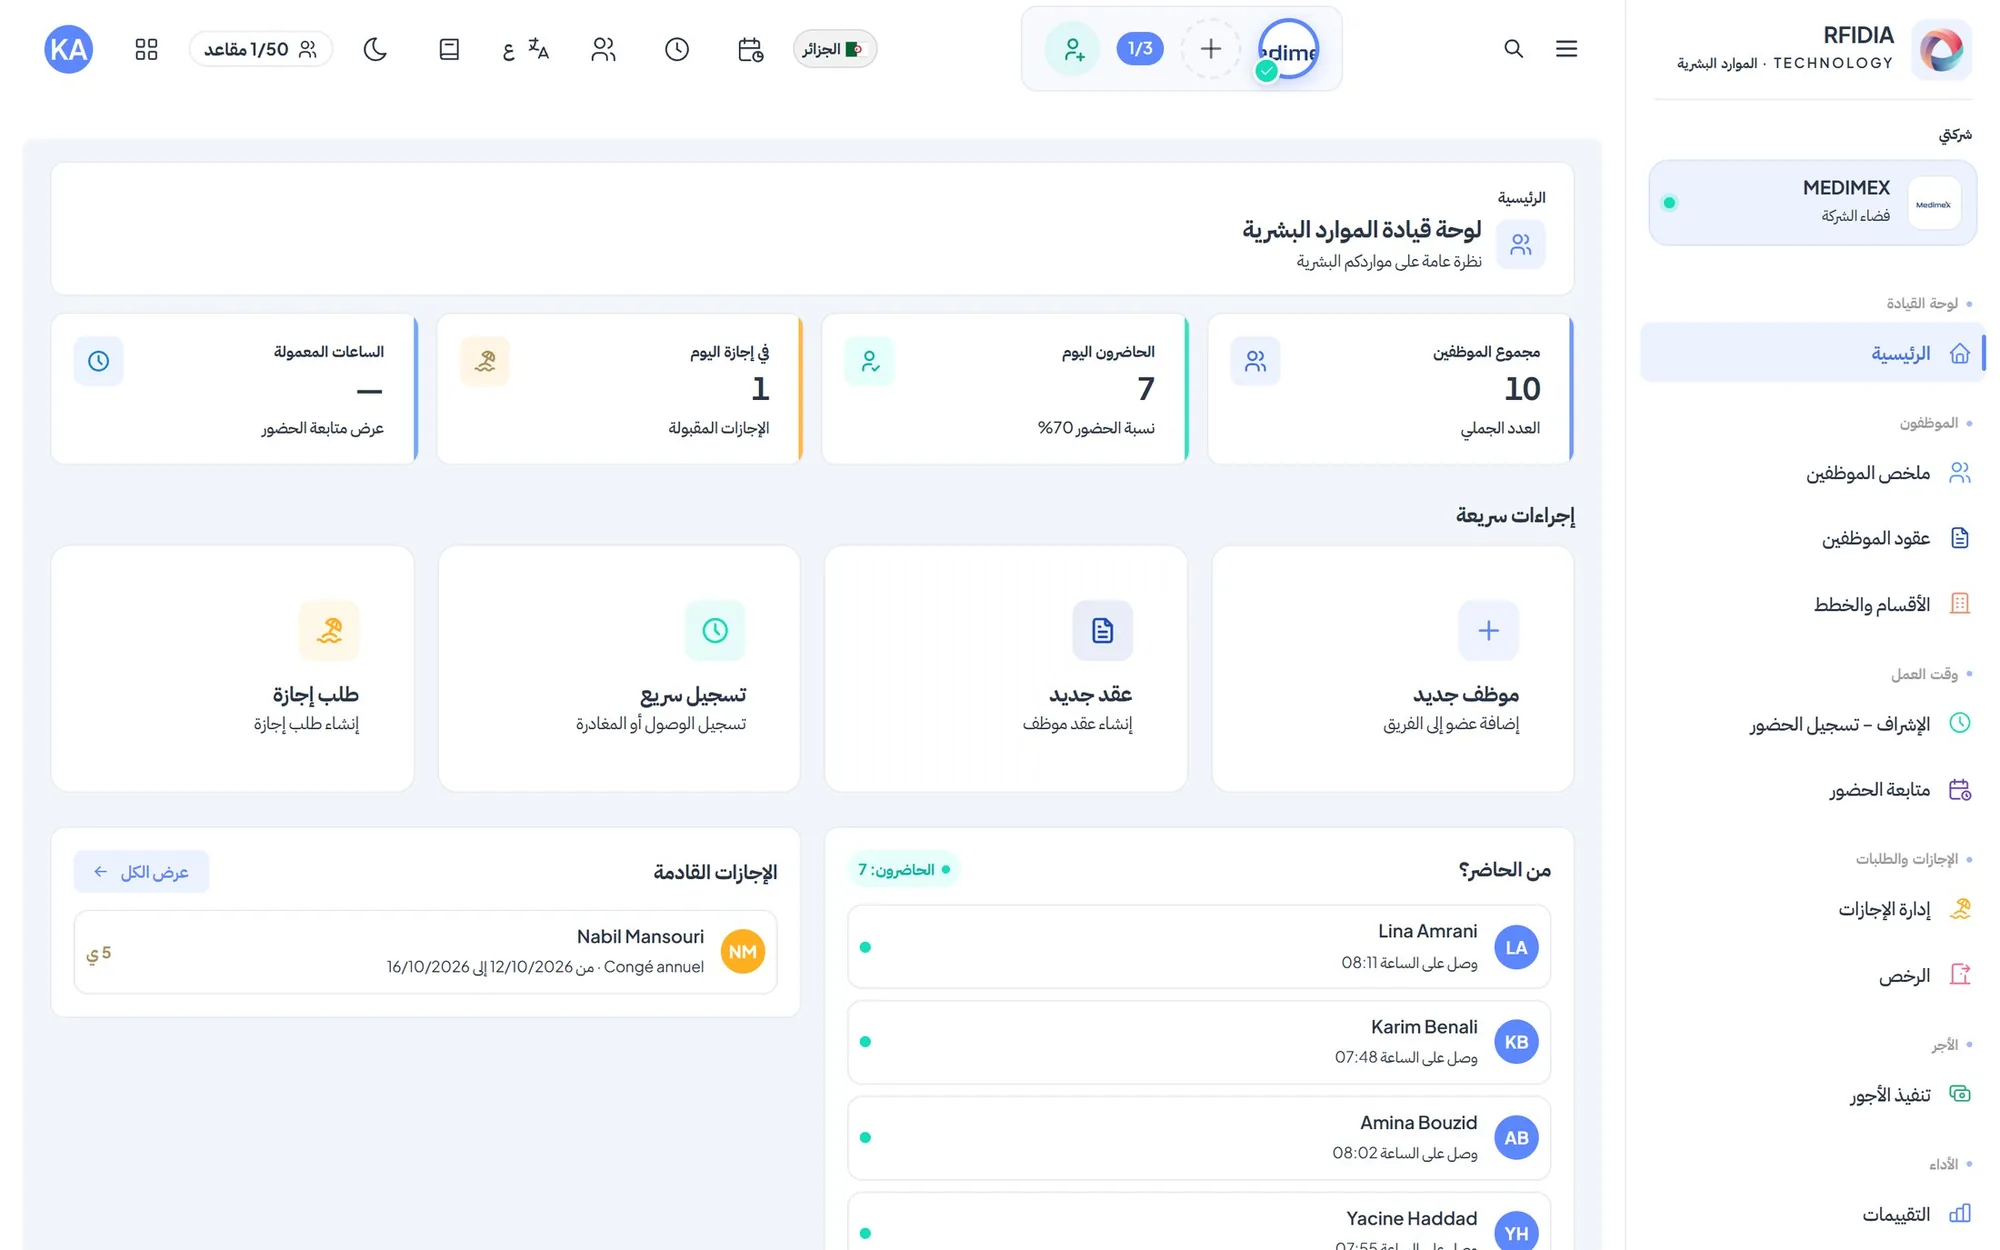
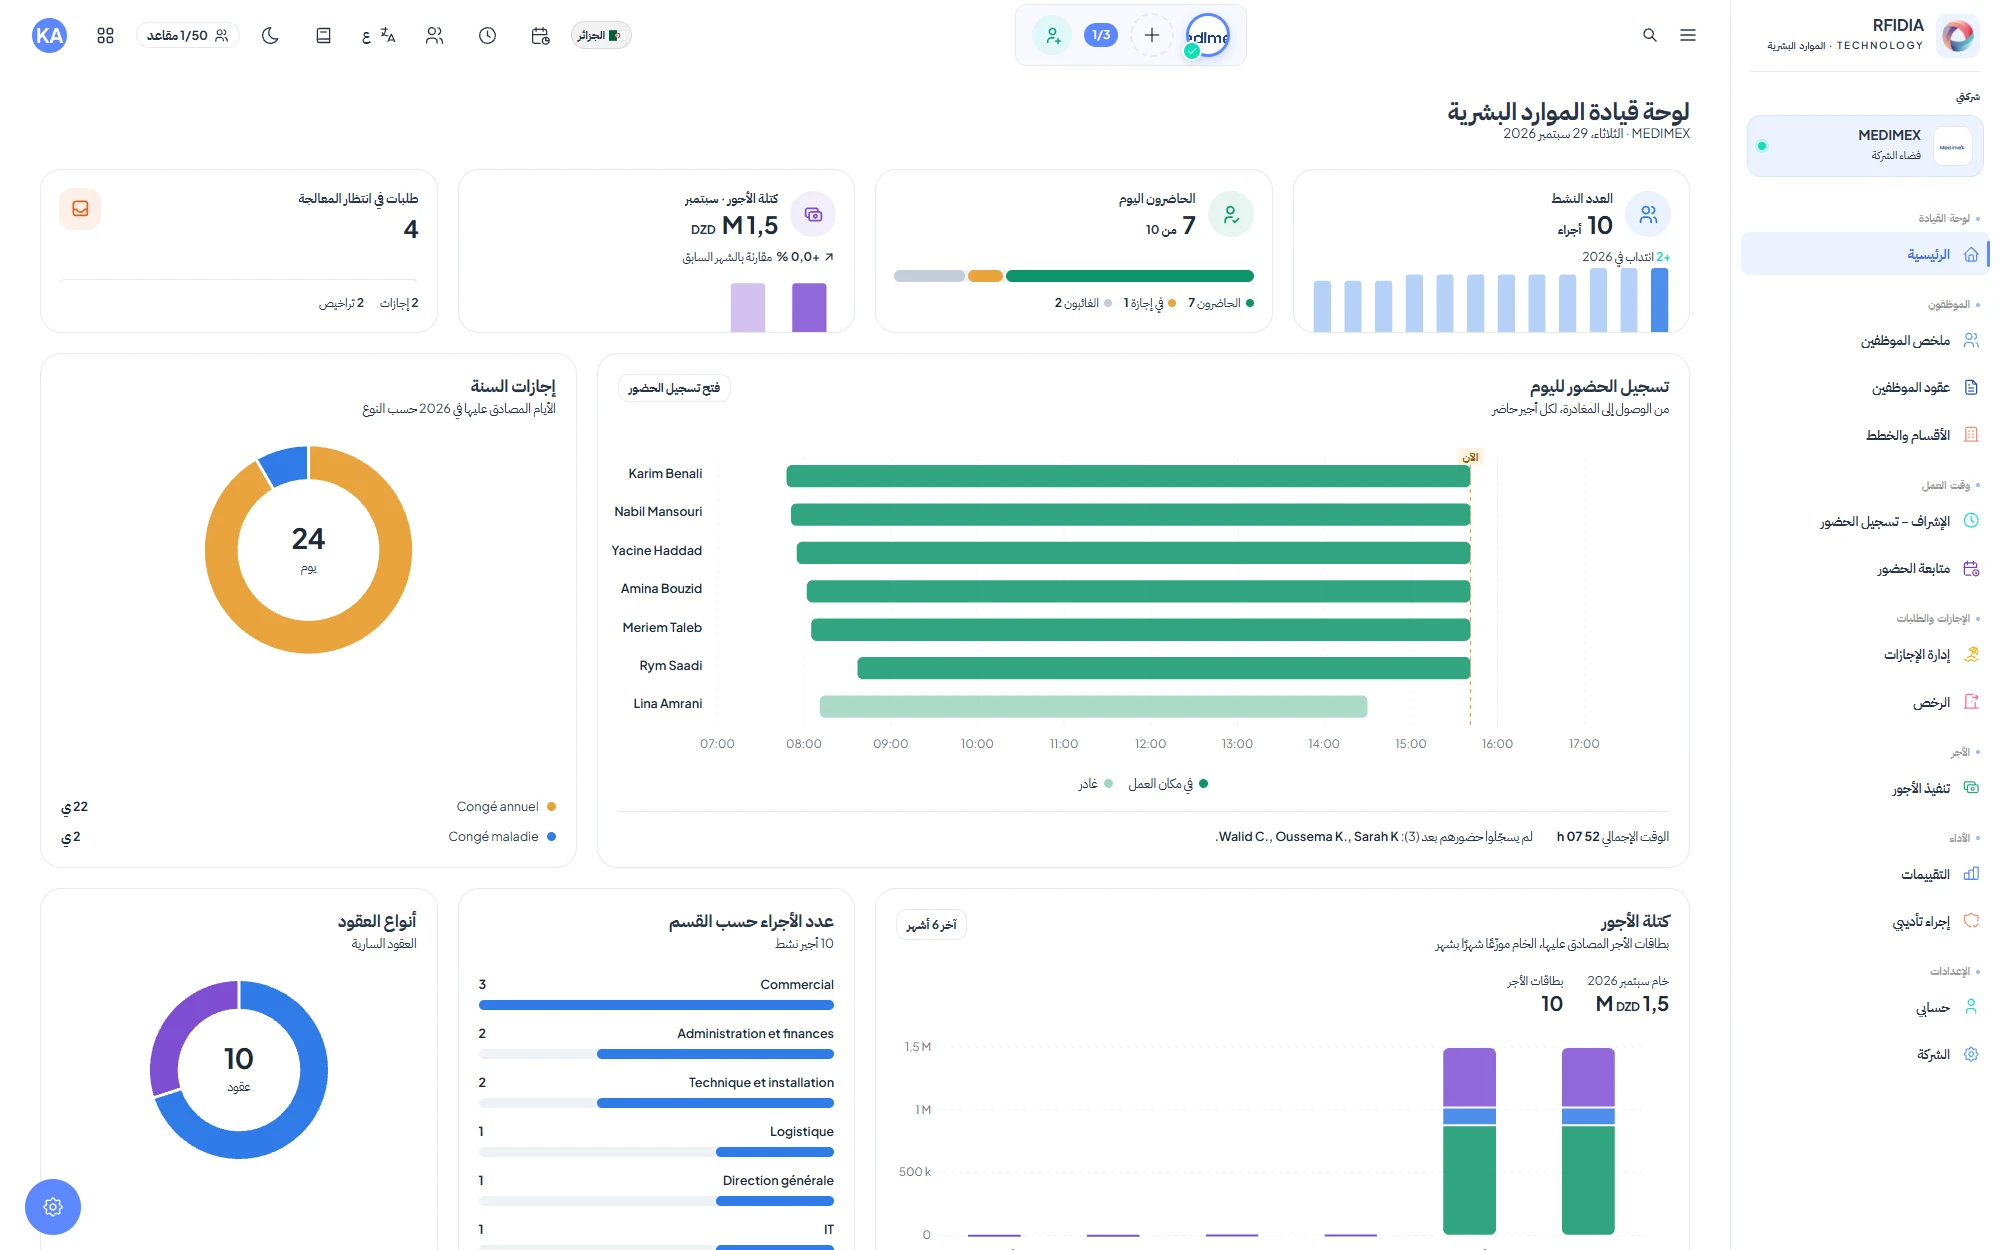
feat(rh): nouvelle capture du tableau de bord
La page du module RH montrait encore l'ancien ecran (compteurs, actions
rapides et liste « Qui est la ? »), alors que la legende decrivait deja
la nouvelle version.

- r-accueil.webp refaite sur l'interface actuelle : effectif actif,
  presence du jour, masse salariale, demandes a traiter, frise de
  pointage arrivee/depart et conges de l'annee (2000x1250, comme les
  autres captures) ;
- a-rh.webp, la meme en arabe, mise a jour pour rester coherente.

diff --git a/src/app/site/data/modules.ts b/src/app/site/data/modules.ts
@@ -366,7 +366,7 @@ export const MODULES: Record<ModuleKey, ModuleContent> = {
     hero: shot(
       'r-accueil.webp', 2000, 1250, 'rh.tagstream.com.tn',
       'Tableau de bord RH.',
-      'Effectif, présents du jour, congés en cours, actions rapides et liste « Qui est là ? ».'
+      'Effectif, présence du jour, masse salariale, demandes à traiter et pointage de chaque salarié, de l’arrivée au départ.'
     ),
     sections: [
       {
